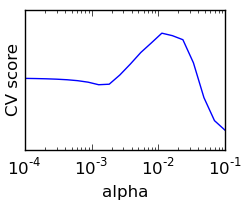
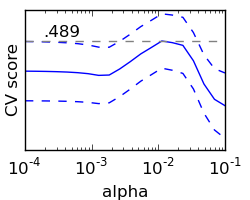
Start nested cross-val

diff --git a/tutorial/plot_cv_digits.py b/tutorial/plot_cv_digits.py
@@ -1,0 +1,38 @@
+import numpy as np
+import pylab as pl
+
+from scikits.learn import cross_val, datasets, svm
+
+digits = datasets.load_digits()
+X = digits.data
+y = digits.target
+
+svc = svm.SVC()
+
+scores = list()
+scores_std = list()
+gammas = np.logspace(-6, -1, 10)
+
+for gamma in gammas:
+    svc.gamma = gamma
+    this_scores = cross_val.cross_val_score(svc, X, y, n_jobs=-1)
+    scores.append(np.mean(this_scores))
+    scores_std.append(np.std(this_scores))
+
+pl.figure(1, figsize=(2.5, 2))
+pl.clf()
+pl.axes([.1, .25, .8, .7])
+pl.semilogx(gammas, scores)
+pl.semilogx(gammas, np.array(scores) + np.array(scores_std), 'b--')
+pl.semilogx(gammas, np.array(scores) - np.array(scores_std), 'b--')
+pl.yticks(())
+pl.ylabel('CV score')
+pl.xlabel('gamma')
+pl.ylim(0, 1.1)
+#pl.axhline(np.max(scores), linestyle='--', color='.5')
+pl.text(gammas[np.argmax(scores)], .9*np.max(scores), '%.3f' % np.max(scores), 
+        verticalalignment='top',
+        horizontalalignment='center',
+        )
+pl.savefig('cv_digits.png')
+

diff --git a/tutorial/plot_cv_diabetes.py b/tutorial/plot_cv_diabetes.py
@@ -16,14 +16,20 @@ scores_std = list()
 
 for alpha in alphas:
     lasso.alpha = alpha
-    scores.append(np.mean(cross_val.cross_val_score(lasso, X, y, n_jobs=-1)))
+    this_scores = cross_val.cross_val_score(lasso, X, y, n_jobs=-1)
+    scores.append(np.mean(this_scores))
+    scores_std.append(np.std(this_scores))
 
 pl.figure(1, figsize=(2.5, 2))
 pl.clf()
 pl.axes([.1, .25, .8, .7])
 pl.semilogx(alphas, scores)
+pl.semilogx(alphas, np.array(scores) + np.array(scores_std)/20, 'b--')
+pl.semilogx(alphas, np.array(scores) - np.array(scores_std)/20, 'b--')
 pl.yticks(())
 pl.ylabel('CV score')
 pl.xlabel('alpha')
+pl.axhline(np.max(scores), linestyle='--', color='.5')
+pl.text(2e-4, np.max(scores)+1e-4, '.489')
 pl.savefig('cv_diabetes.png')
 

diff --git a/tutorial/model_selection.rst b/tutorial/model_selection.rst
@@ -58,7 +58,7 @@ of indices for this purpose::
 
 The cross-validation can then be implemented easily:: 
 
-    >>> kfold = cross_val.KFold(len(X_digits), k=10)
+    >>> kfold = cross_val.KFold(len(X_digits), k=3)
     >>> [svc.fit(X_digits[train], y_digits[train]).score(X_digits[test], y_digits[test])
     ...          for train, test in kfold]
     [0.95530726256983245, 1.0, 0.93296089385474856, 0.98324022346368711, 0.98882681564245811, 0.98882681564245811, 0.994413407821229, 0.994413407821229, 0.97206703910614523, 0.95161290322580649]
@@ -97,16 +97,58 @@ of the computer.
 
     - Takes a label array to group observations
 
-.. image:: cv_diabetes.png
-   :scale: 60
+.. image:: cv_digits.png
+   :scale: 65
    :align: right
 
 .. topic:: **Excercise**
    :class: green
 
-   On the diabetes dataset, plot the cross-validation score of a Lasso
-   estimator as a function of alpha (use a logarithmic grid of points,
-   from `1e-4` to `1e-1`).
+   On the digits dataset, plot the cross-validation score of a SVC
+   estimator with an RBF kernel as a function of gamma (use a logarithmic
+   grid of points, from `1e-6` to `1e-1`).
 
 Grid-search and cross-validated estimators
 ============================================
+
+Grid-search
+-------------
+
+The scikits.learn provides an object that, given data, computes the score
+during the fit of an estimator on a parameter grid and chooses the
+parameters to maximize the cross-validation score. This object takes an
+estimator during the construction and exposes an estimator API::
+
+    >>> from scikits.learn.grid_search import GridSearchCV
+    >>> gammas = np.logspace(-6, -1, 10)
+    >>> clf = GridSearchCV(estimator=svc, param_grid=dict(gamma=gammas), 
+    ...                    n_jobs=-1)
+    >>> clf.fit(X_digits[:1000], y_digits[:1000]) # doctest: +ELLIPSIS
+    GridSearchCV(n_jobs=-1, ...)
+    >>> clf.best_score
+    0.98899798001594419
+    >>> clf.best_estimator.gamma
+    0.00059948425031894088
+
+    # Prediction performance on test set is not as good as on train set
+    >>> clf.score(X_digits[1000:], y_digits[1000:])
+    0.961
+
+
+By default the `GridSearchCV` uses a 3-fold cross-validation. However, if
+it detects that a classifier is passed, rather than a regressor, it uses
+a stratified 3-fold.
+
+.. topic:: Nested cross-validation
+
+    ::
+
+        >>> cross_val.cross_val_score(clf, X_digits, y_digits)
+
+.. warning::
+
+    You cannot nest objects with parallel computing (n_jobs different
+    than 1)
+
+Cross-validated estimators
+----------------------------
